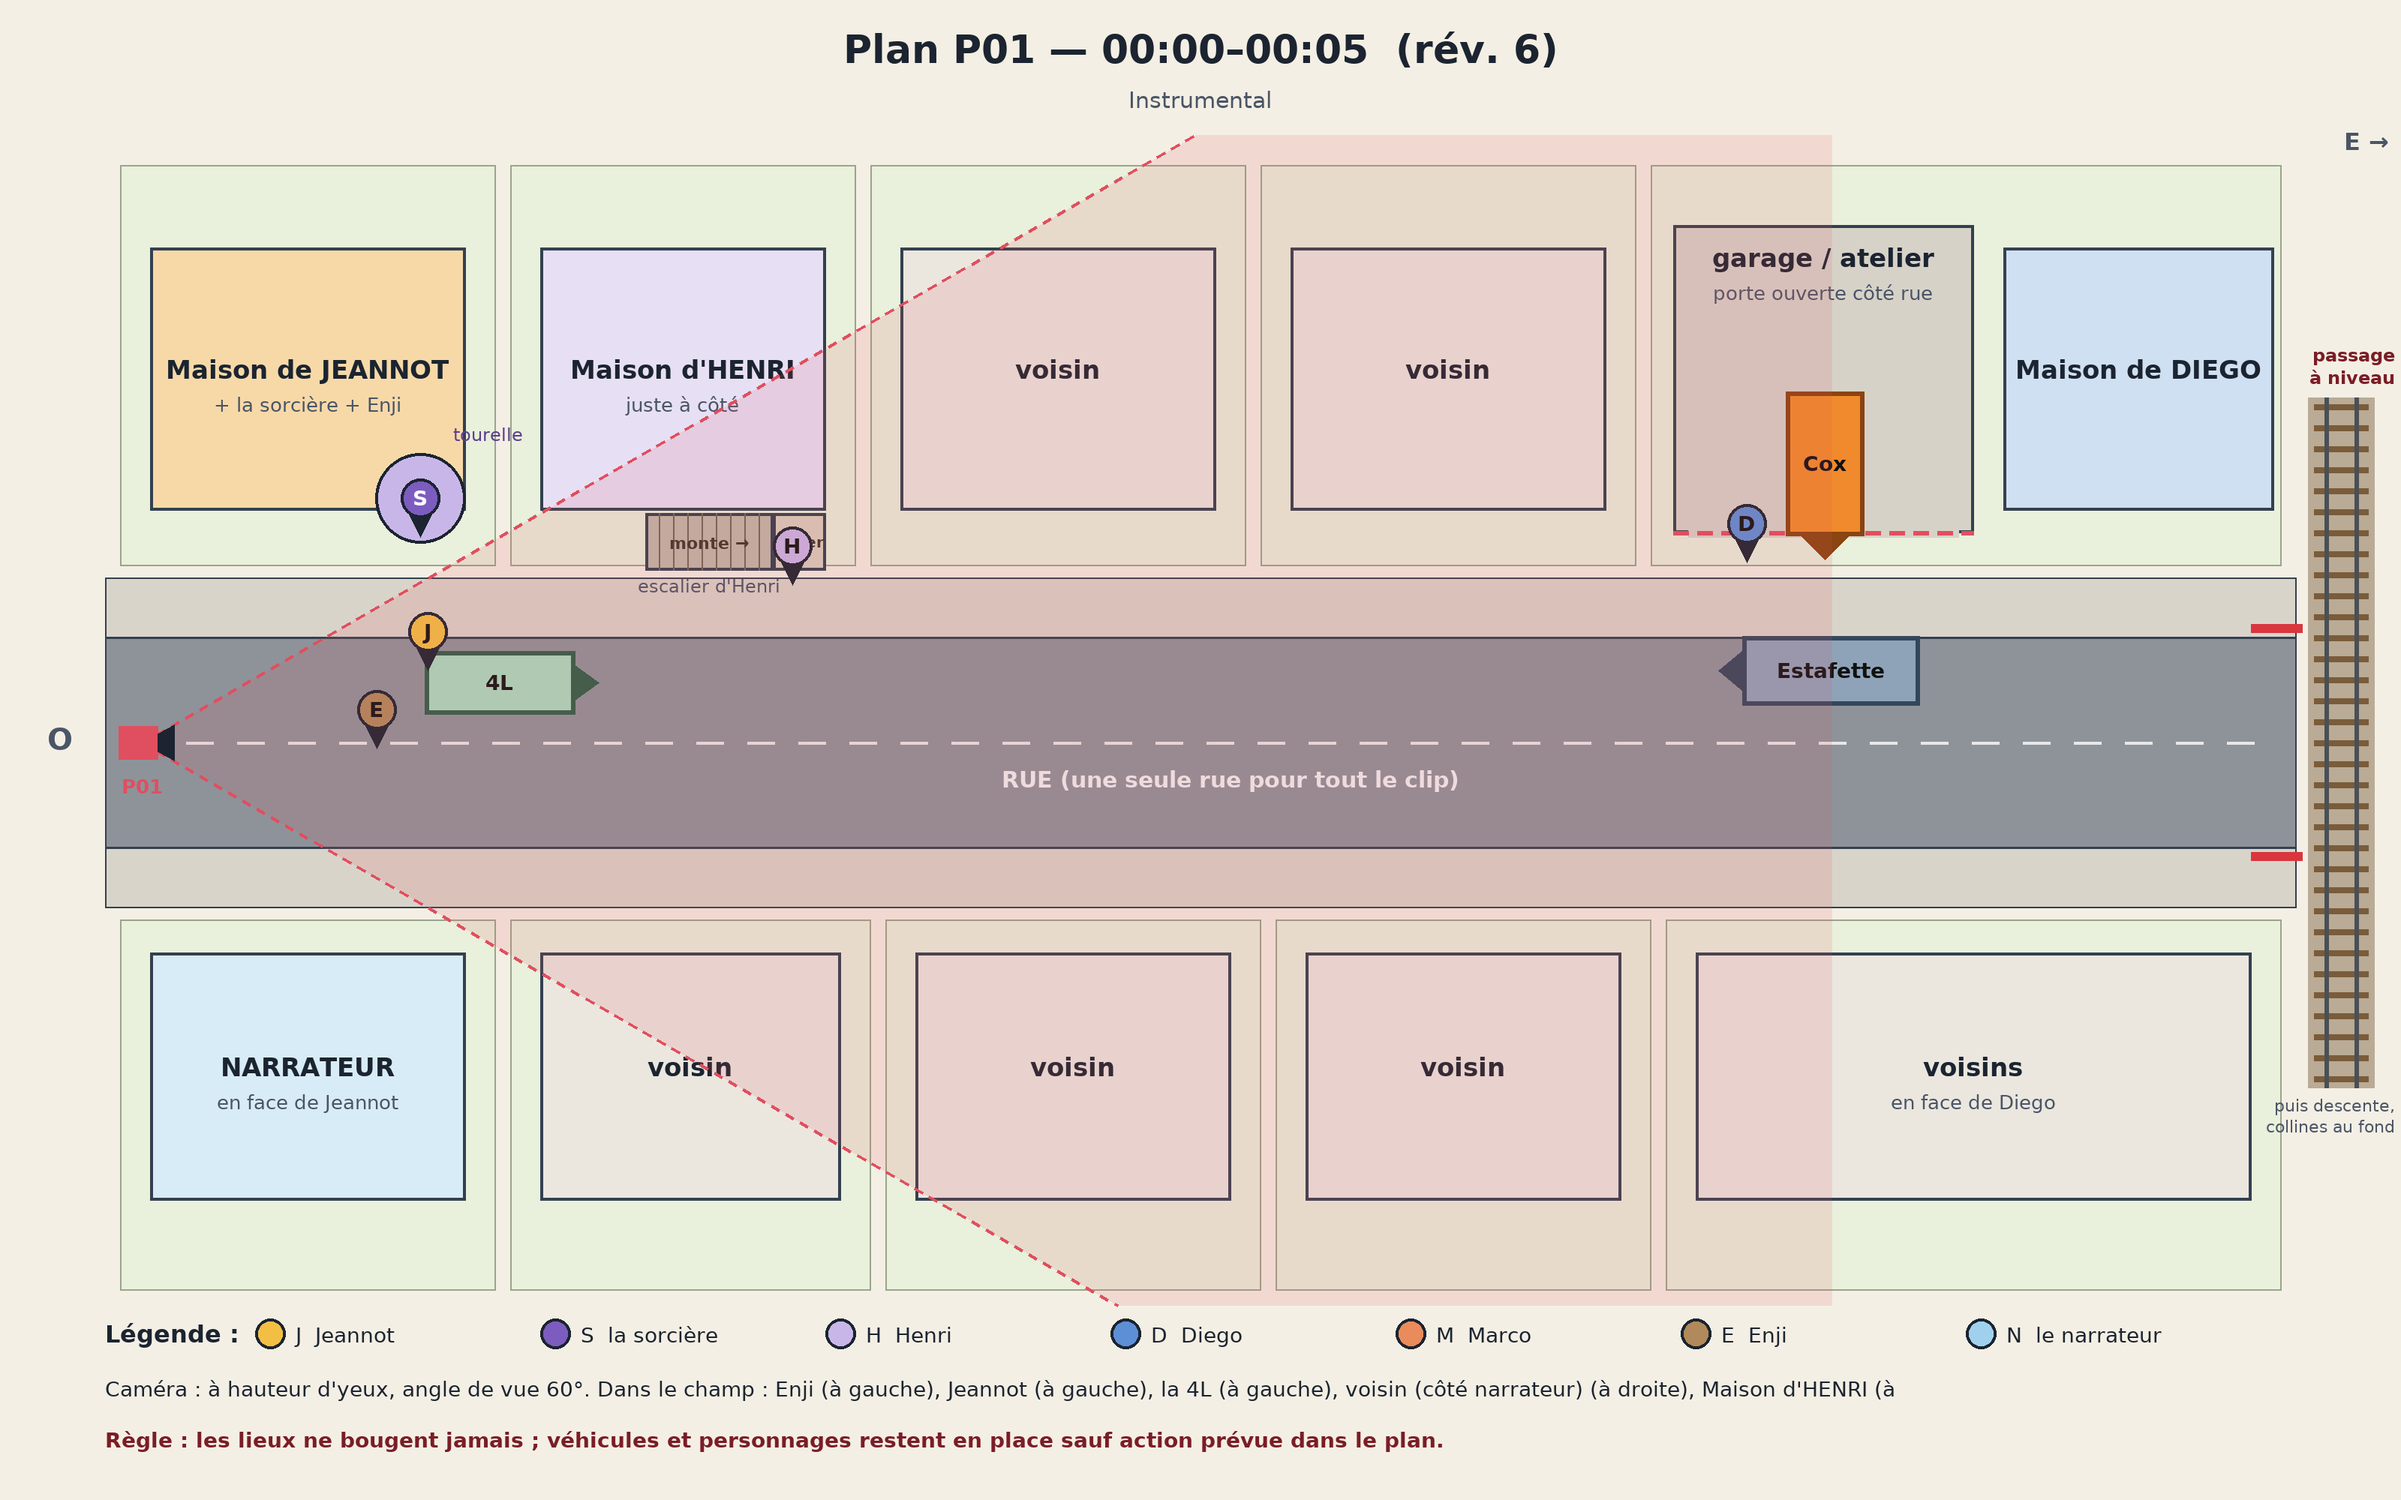
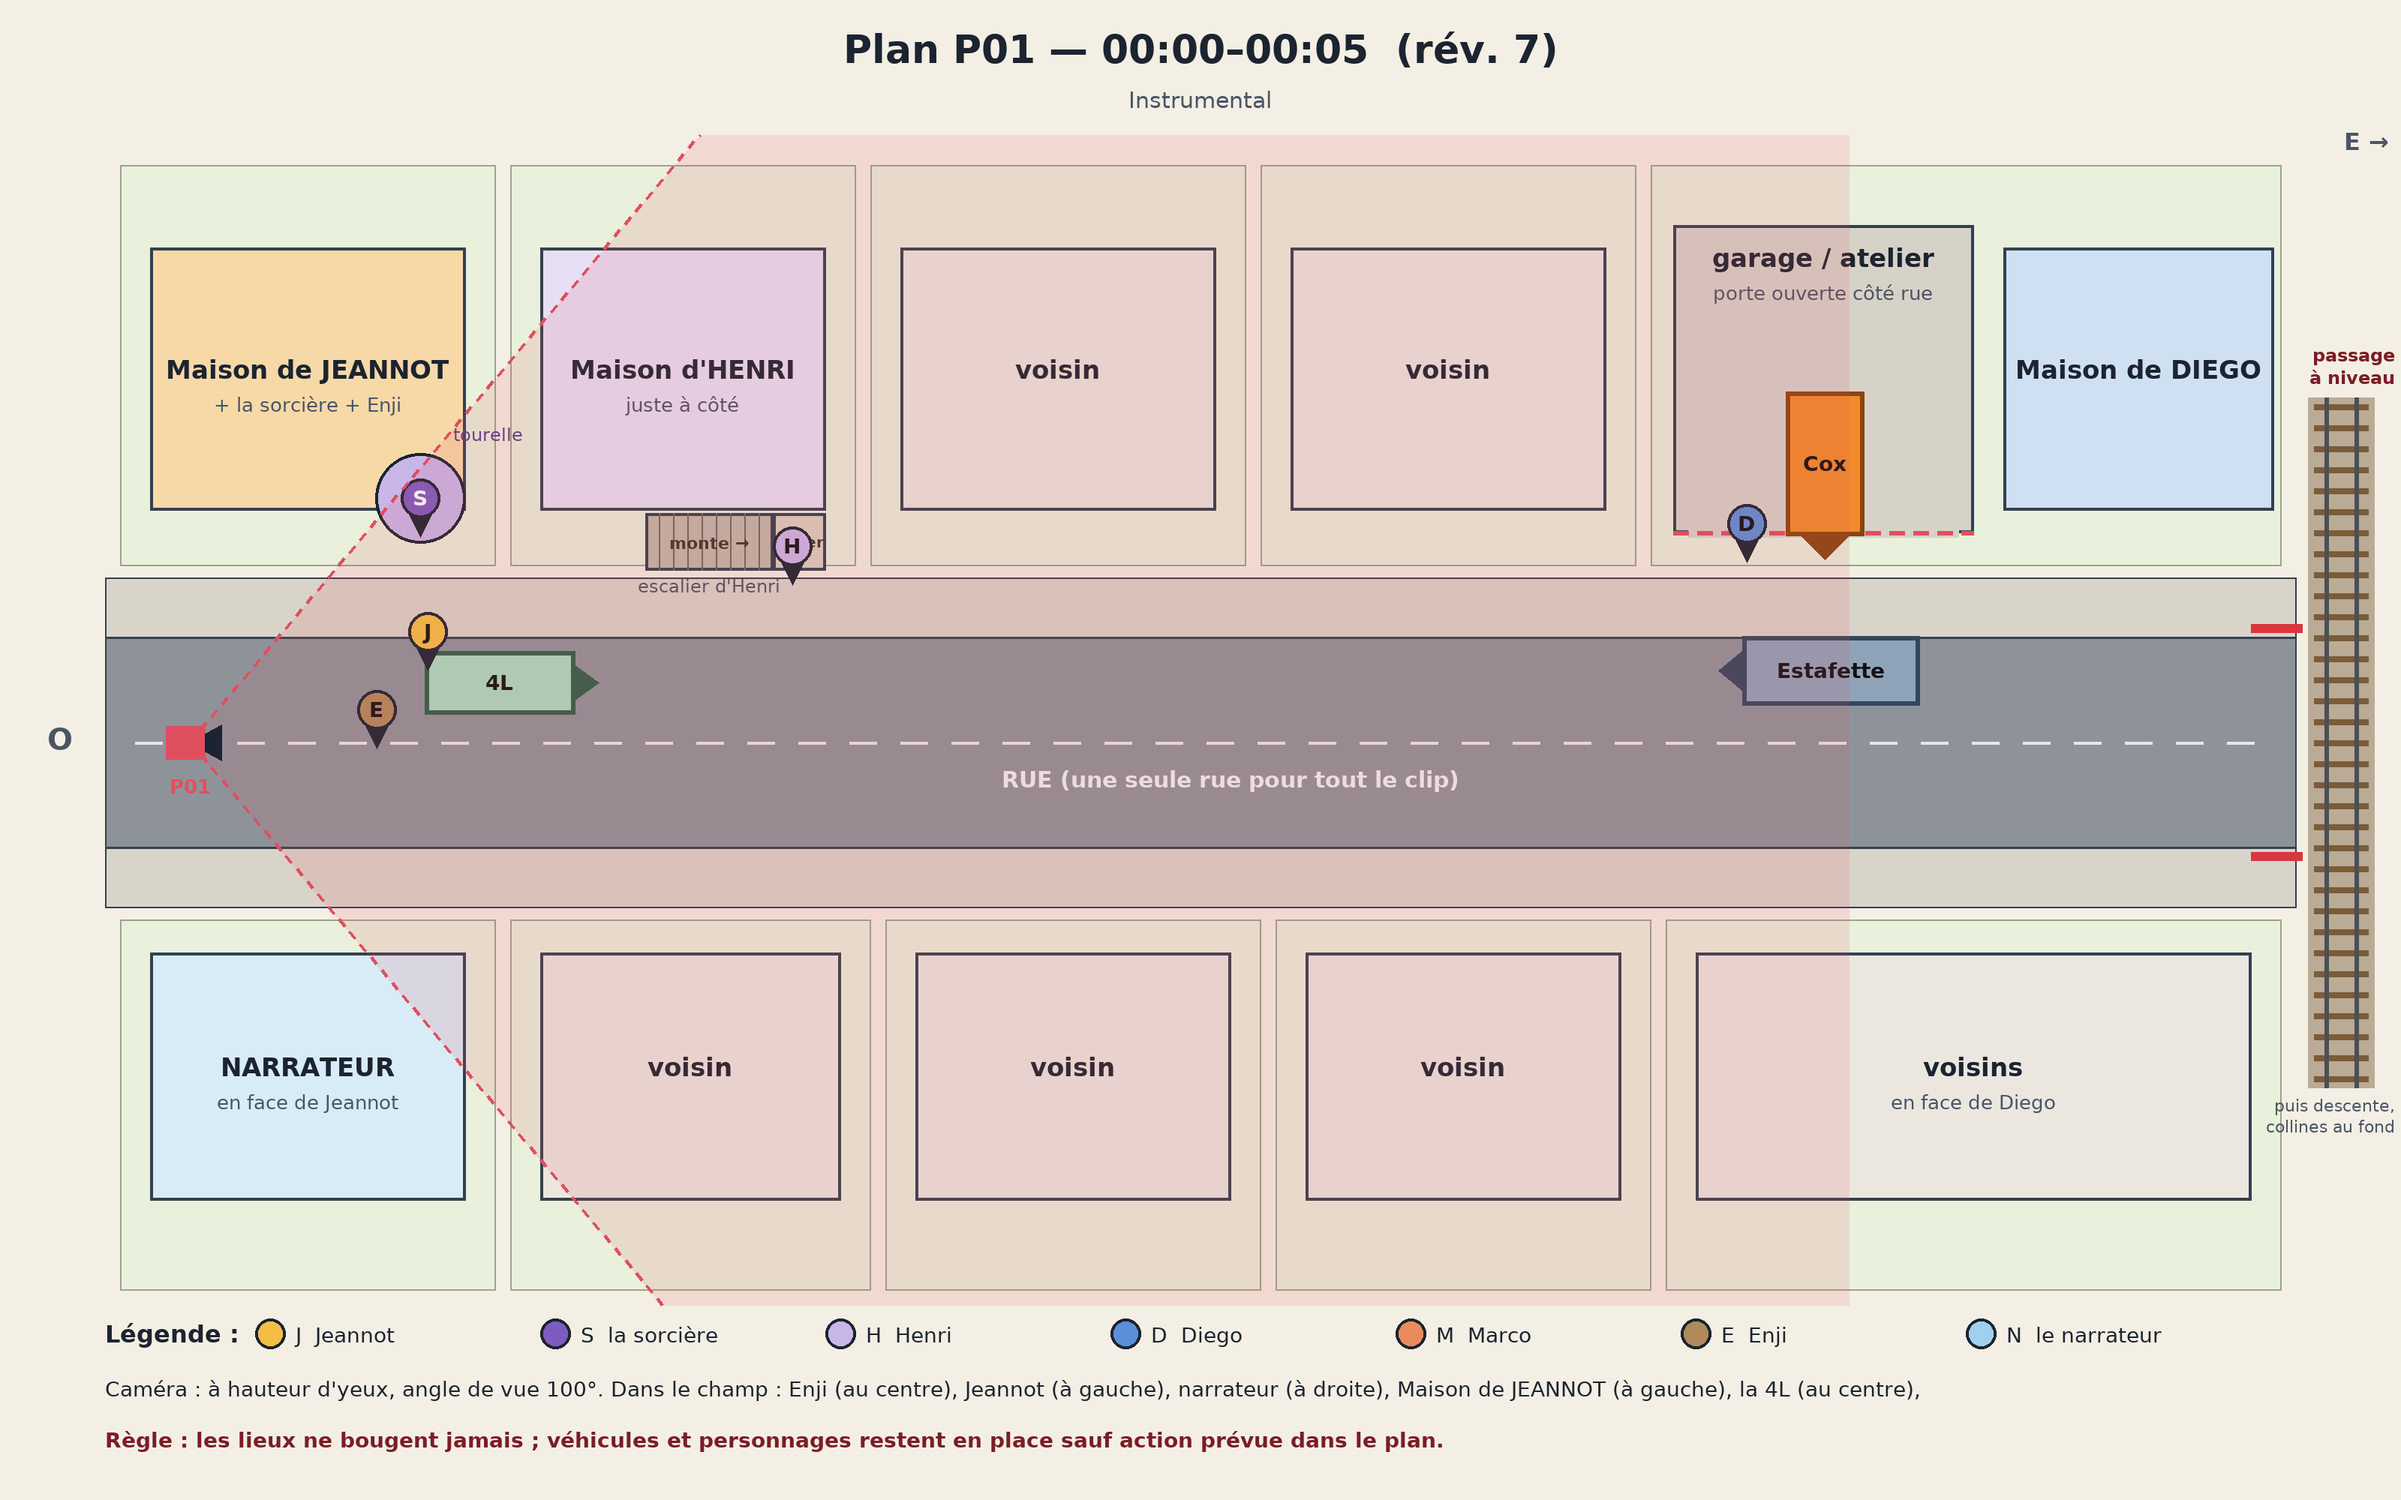
Carte interactive : placement P01 (rév. 7)

diff --git a/docs/storyboard-a-valider.md b/docs/storyboard-a-valider.md
@@ -74,7 +74,7 @@ D'après ton avis sur la v2 : la tourelle de la sorcière passe du côté droit 
 
 > Plan général maître de la rue, avec avant-plan dégagé. Une 4L vert menthe unique, à échelle réaliste, reste sur l'asphalte au bord du trottoir gauche devant chez Jeannot ; l'Estafette bleu-gris est plus loin sur le même côté.
 
-🗺 Carte du plan (rév. 6, 2026-10-13 09:57) :
+🗺 Carte du plan (rév. 7, 2026-10-13 10:12) :
 
 <img src="../assets/storyboards/a-valider/carte/plans/p01.png" width="420" alt="carte P01">
 
